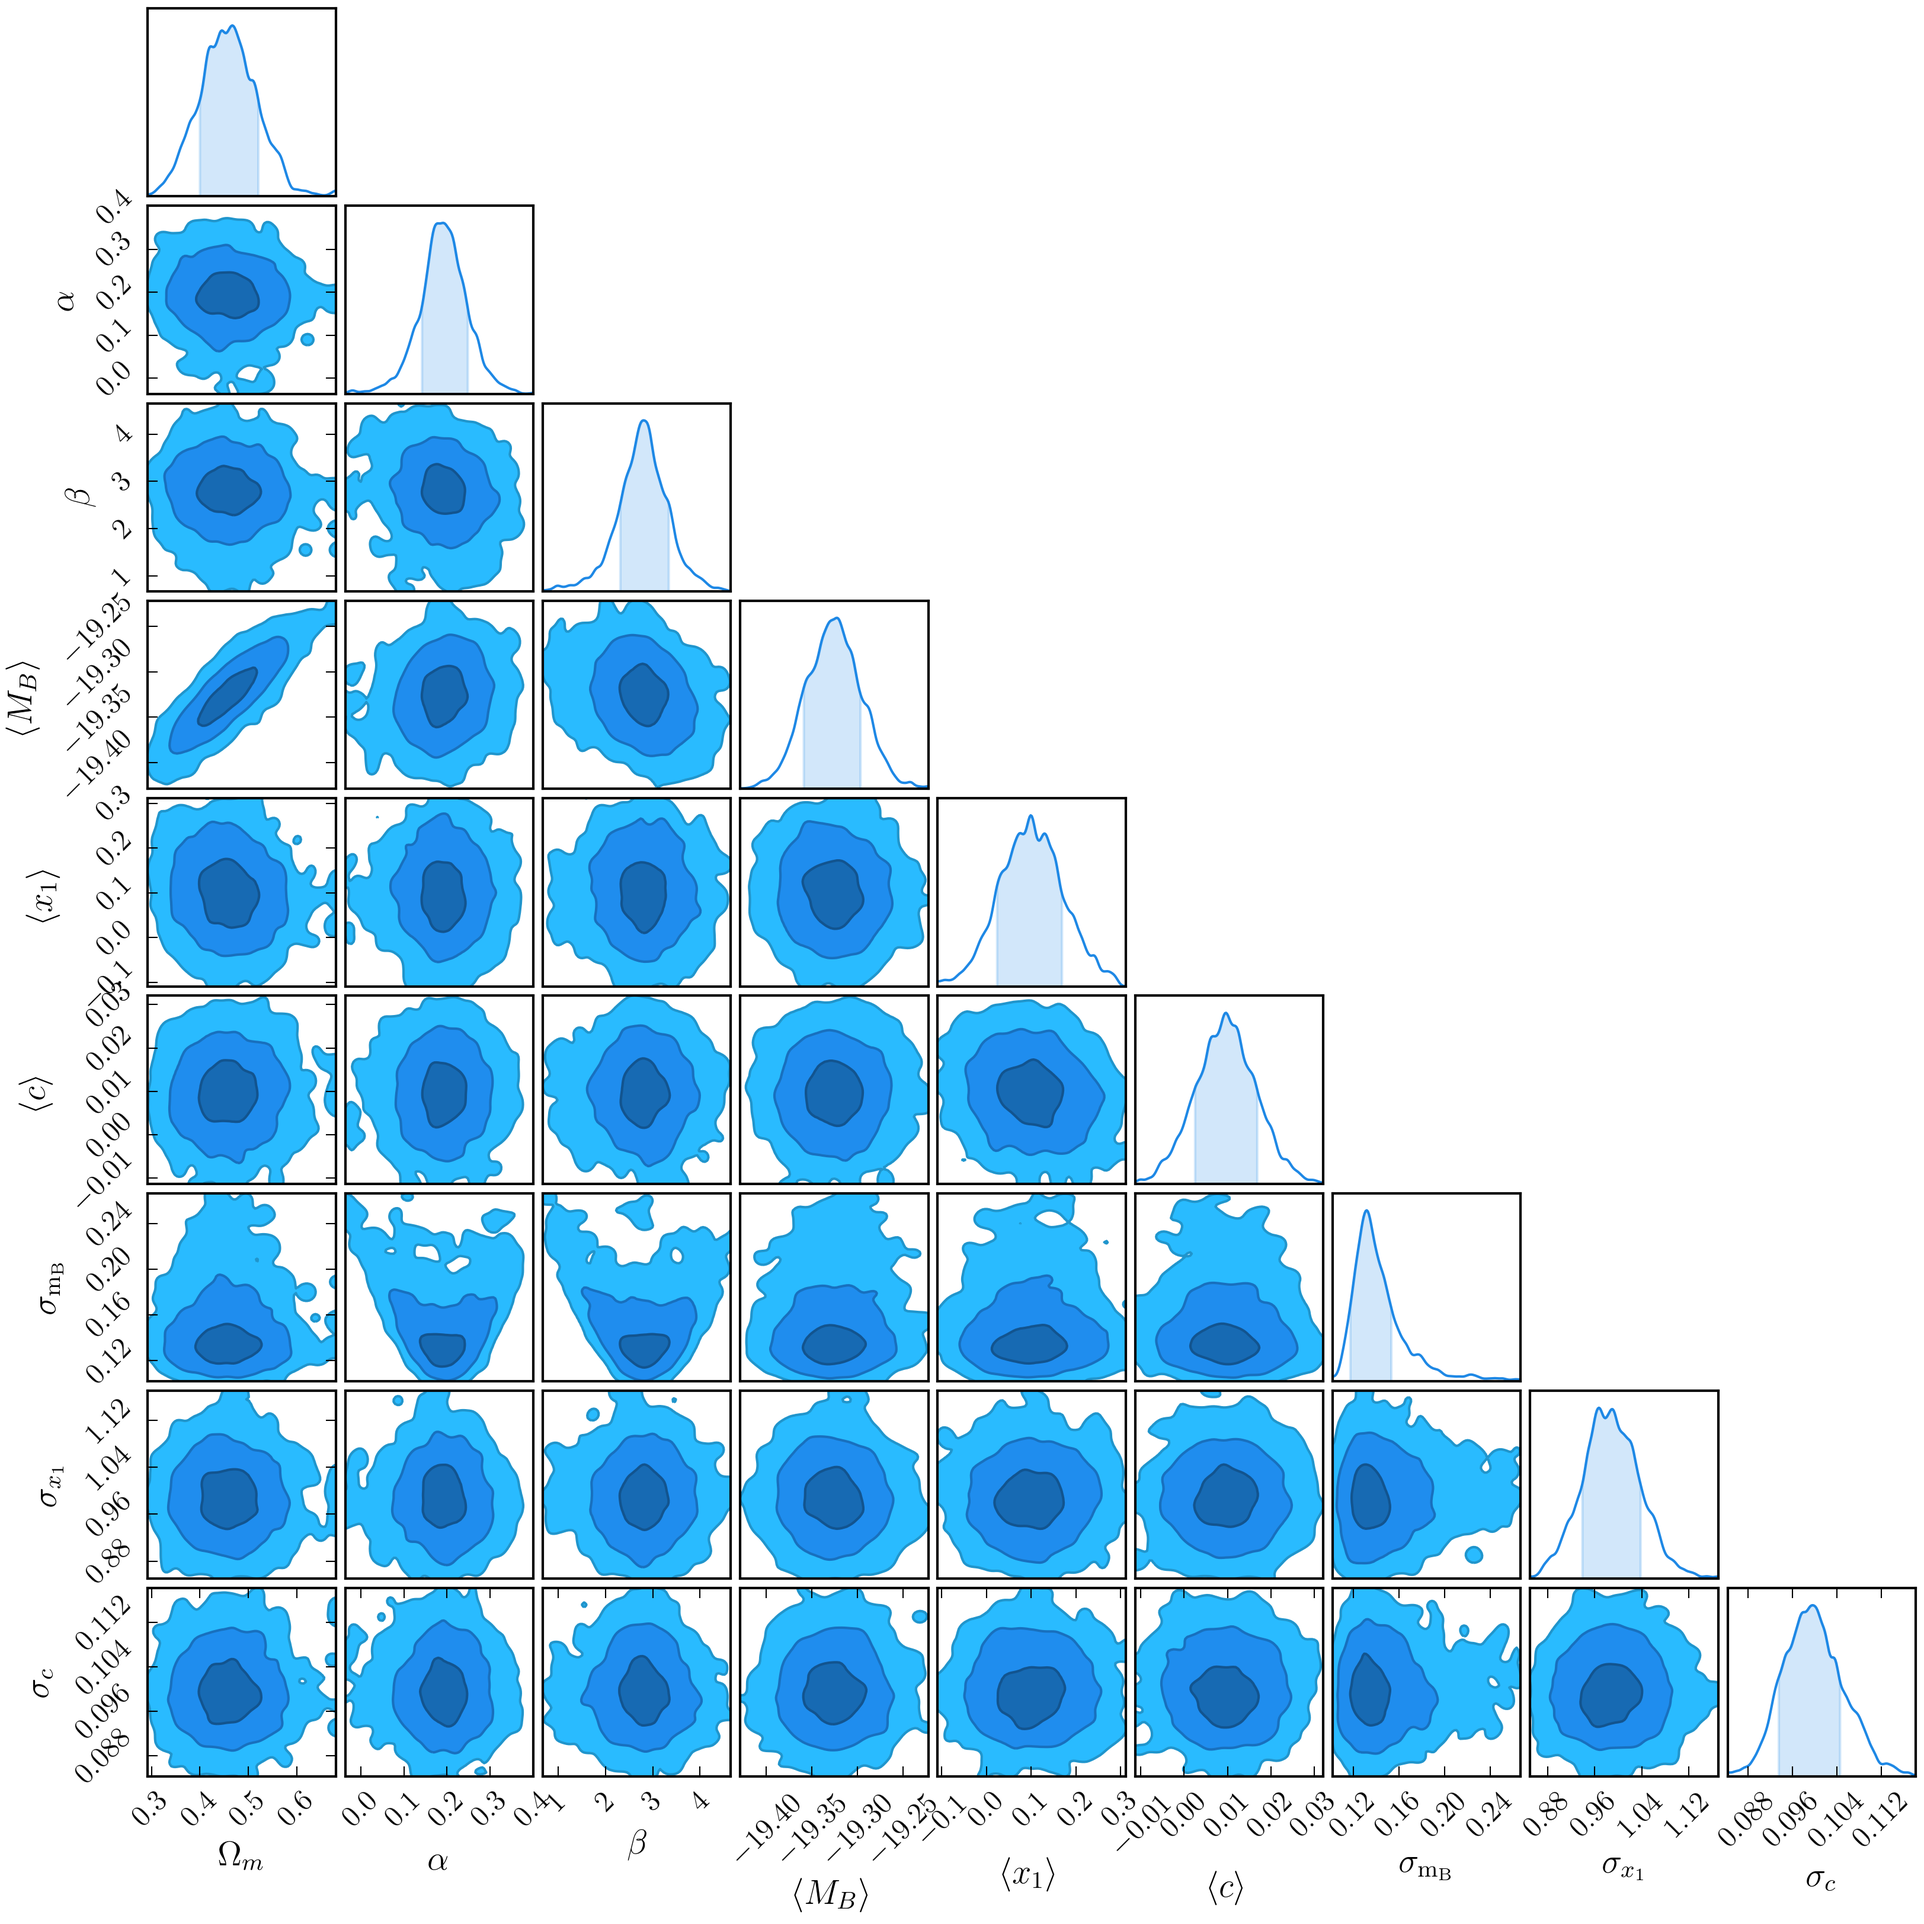
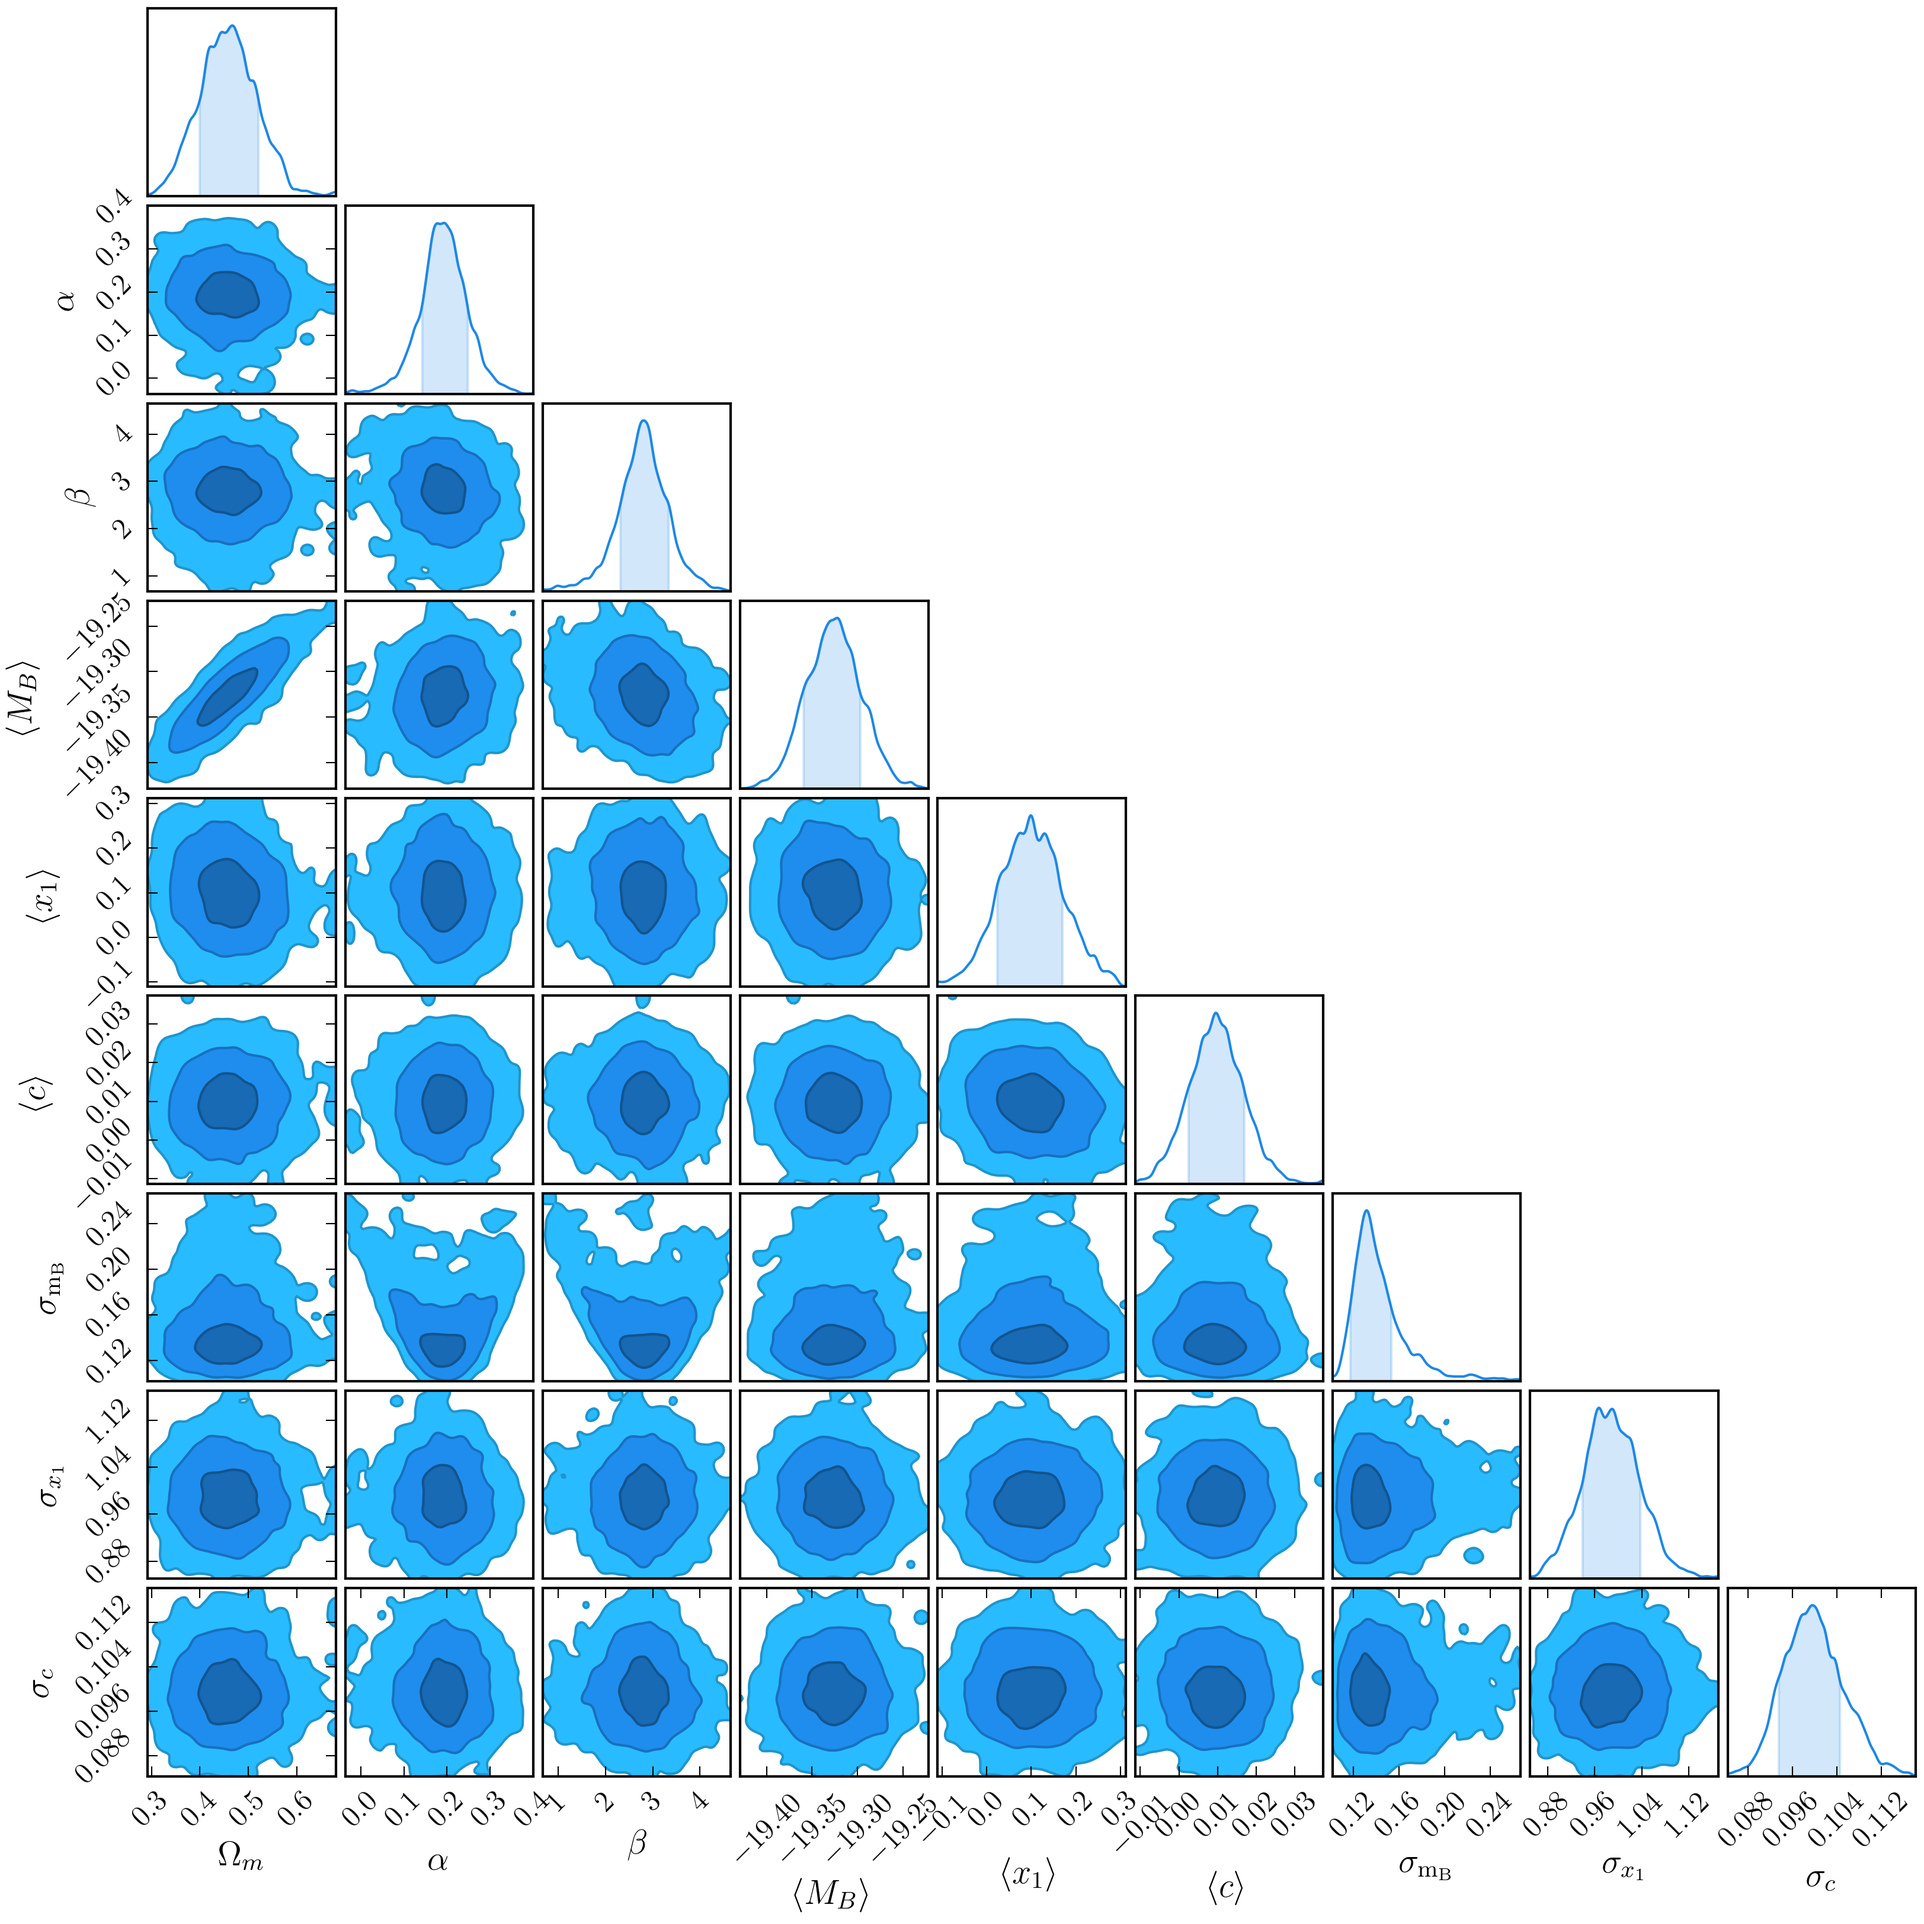
Rerunning with big sim

diff --git a/dessn/models/d_simple_stan/snana/load.py b/dessn/models/d_simple_stan/snana/load.py
@@ -19,10 +19,11 @@ def debug_plots(std):
     c = ChainConsumer()
     c.add_chain(chain, weights=w, name="calib")
     # c.add_chain(chain, name="calib")
-    c.plot(filename="output.png", parameters=9, figsize=1.3)
-    c.plot(filename="output2.png", parameters=6, figsize=1.3)
+    c.plot(filename="outputCor.png", parameters=9, figsize=1.3)
     c.plot_walks(filename="walks.png")
-    # c = ChainConsumer()
+    c = ChainConsumer()
+    c.add_chain(chain,  name="calib")
+    c.plot(filename="output.png", parameters=9, figsize=1.3)
     # c.add_chain(chain, name="approx")
     # c.add_chain(chain, weights=w, name="full")
     # c.plot(filename="output.png", truth=t)

diff --git a/dessn/models/d_simple_stan/snana/run.py b/dessn/models/d_simple_stan/snana/run.py
@@ -127,6 +127,7 @@ def get_approximate_mb_correction():
     # import matplotlib.pyplot as plt
     # plt.plot(binc, ratio)
     # plt.show()
+    # exit()
     inter = interp1d(ratio, binc)
     mean = inter(0.5)
     width = 0.5 * (inter(0.16) - inter(0.84))
@@ -141,7 +142,6 @@ if __name__ == "__main__":
 
     mB_mean, mB_width = get_approximate_mb_correction()
     print(mB_mean, mB_width)
-
     data = {
         "mB_mean": mB_mean,
         "mB_width": mB_width,
